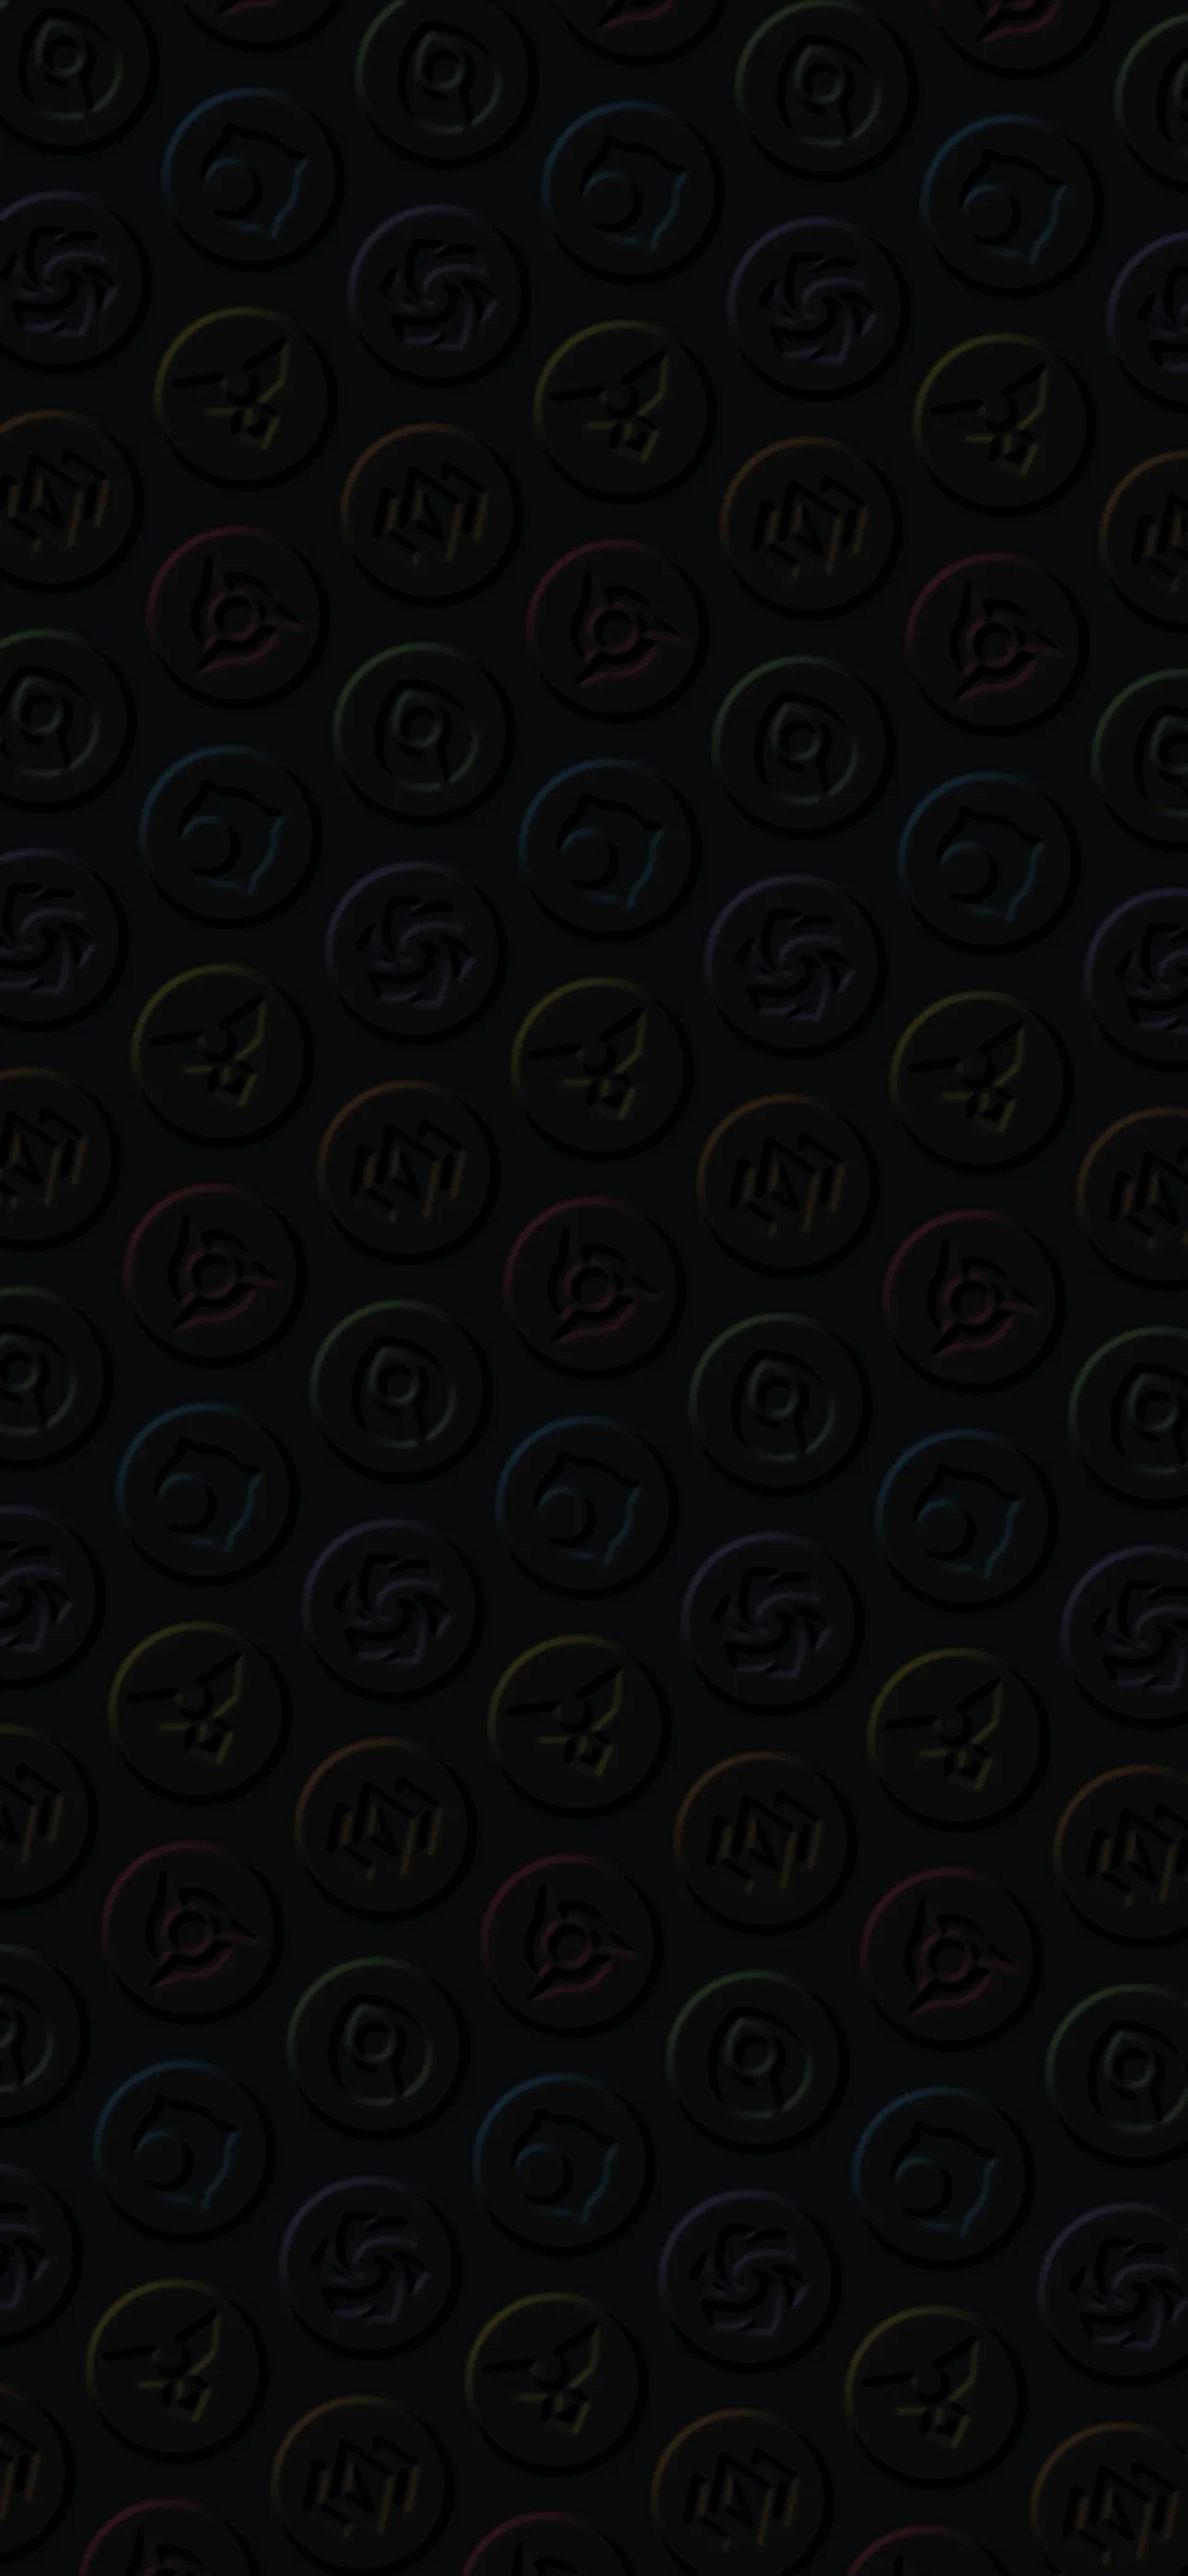
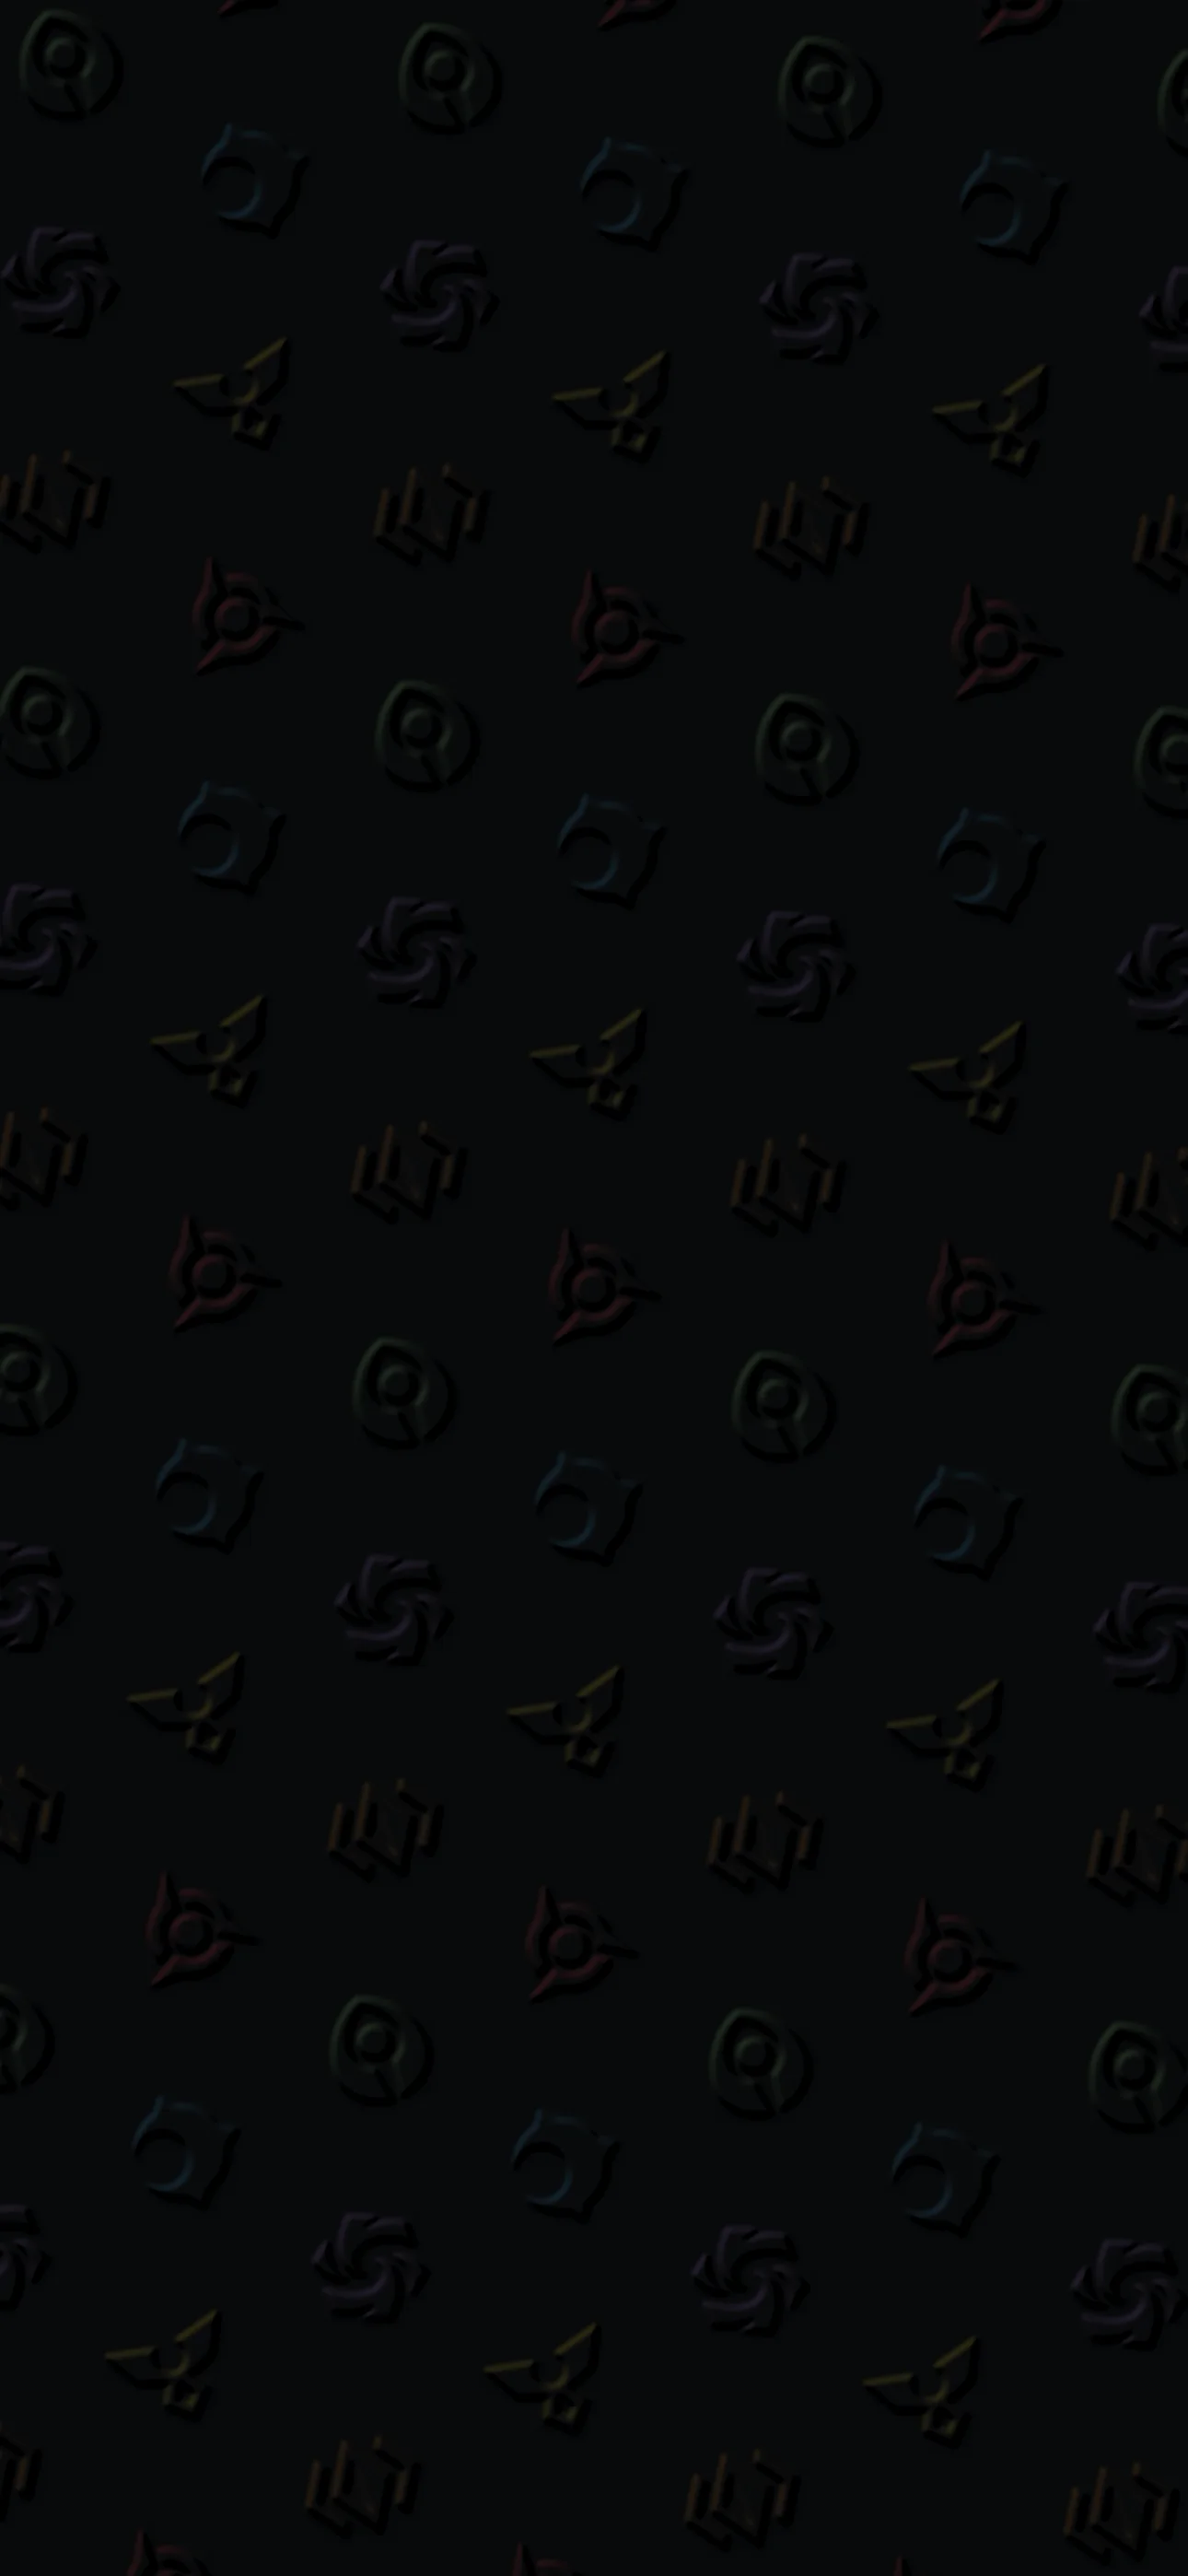
hub: glyph-only texture so the black between is the page's own, a very faint light sweep over the glyphs' lit edges (20 s loop, off for reduced motion), no rubber-band past the edges (Mako 2026-10-31; looks only; all suites pass except sandbox-only m3 T1)
Claude-Session: https://claude.ai/code/session_01SJLeTYVPNpttwHbk9y7HSC

diff --git a/index.html b/index.html
@@ -36,12 +36,27 @@
 <style>
 /* The hub. No bottom bar: this page IS the bar's Hub slot's destination. */
 html{background:var(--ground)}
-body{-webkit-font-smoothing:antialiased;display:flex;flex-direction:column;
-  /* THE HUB'S TEXTURE (Mako 2026-10-31): the six domain runes pressed into the
-     black, their lit edges in each domain's colour, tilted as Mako laid them out.
+/* the hub fits every phone, so it never rubber-bands past its edges (Mako 2026-10-31) */
+html,body{overscroll-behavior:none}
+body{-webkit-font-smoothing:antialiased;display:flex;flex-direction:column;position:relative;
+  /* THE HUB'S TEXTURE (Mako 2026-10-31): the six domain glyphs pressed into the
+     page's own black (no discs, so the black between them is the ground exactly),
+     their lit edges in each domain's colour, tilted as Mako laid them out.
      One still image for the whole page; the plate frosts the lower part.
      Made by rb-tools design/hub-texture/ from Riot's rune files. */
   background:var(--ground) url(img/hub-runes.webp) center top/cover no-repeat}
+/* THE LIGHT SWEEP (Mako 2026-10-31): a faint band of light crosses the glyphs'
+   lit edges, slowly, then rests. The band shows only through the edges mask
+   (same size and place as the texture) and moves by transform alone. Off for
+   reduced motion. */
+.sheen{position:absolute;inset:0;pointer-events:none;overflow:hidden;
+  -webkit-mask:url(img/hub-runes-edges.webp) center top/cover no-repeat;
+  mask:url(img/hub-runes-edges.webp) center top/cover no-repeat}
+.sheen i{position:absolute;top:-25%;left:0;width:70vw;height:150%;will-change:transform;
+  background:linear-gradient(90deg,rgba(255,255,255,0),rgba(255,255,255,.12) 50%,rgba(255,255,255,0));
+  transform:translateX(-150vw) rotate(24deg);animation:hubsweep 20s ease-in-out infinite}
+@keyframes hubsweep{0%{transform:translateX(-150vw) rotate(24deg)}55%,100%{transform:translateX(150vw) rotate(24deg)}}
+@media (prefers-reduced-motion:reduce){.sheen{display:none}}
 
 .top{height:max(260px,42vh);display:flex;flex-direction:column;
   /* the name centres between the top clear line plus 36 and the middle
@@ -121,6 +136,7 @@ body{-webkit-font-smoothing:antialiased;display:flex;flex-direction:column;
 </style>
 </head>
 <body>
+<div class="sheen" aria-hidden="true"><i></i></div>
 
 <div class="top">
   <h1 class="hubname"><span class="logo1">RA</span><span class="logo2">VI</span></h1>
